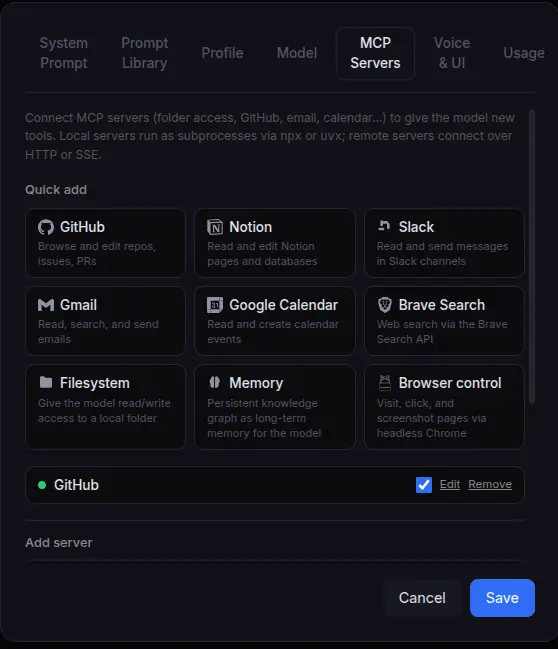
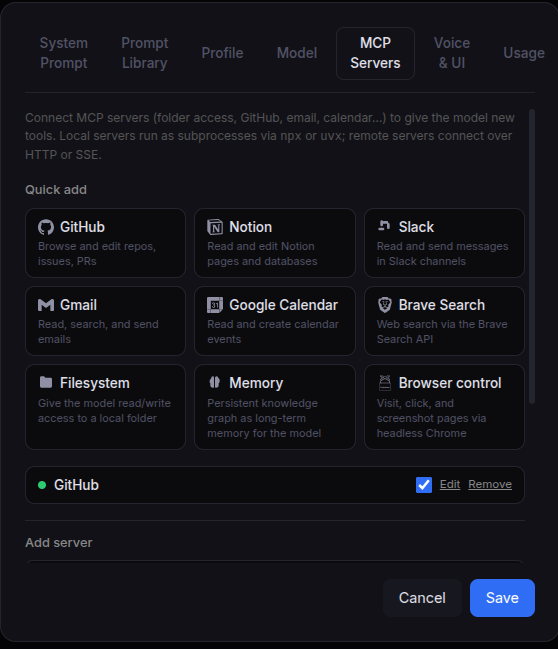
docs: use lossless screenshots

diff --git a/backend/routes/chat.py b/backend/routes/chat.py
@@ -273,11 +273,6 @@ async def send_message(
 
         user_data = get_user_data(user_id)
         extra_parts = []
-        if user_data["display_name"]:
-            extra_parts.append(
-                f"The user's name is {user_data['display_name']}. Use it sparingly and only "
-                "where it feels natural (e.g. a greeting) — don't force it into every reply."
-            )
         if user_data["profile"]:
             extra_parts.append(f"User profile:\n{user_data['profile']}")
         if user_data["memory"]:
